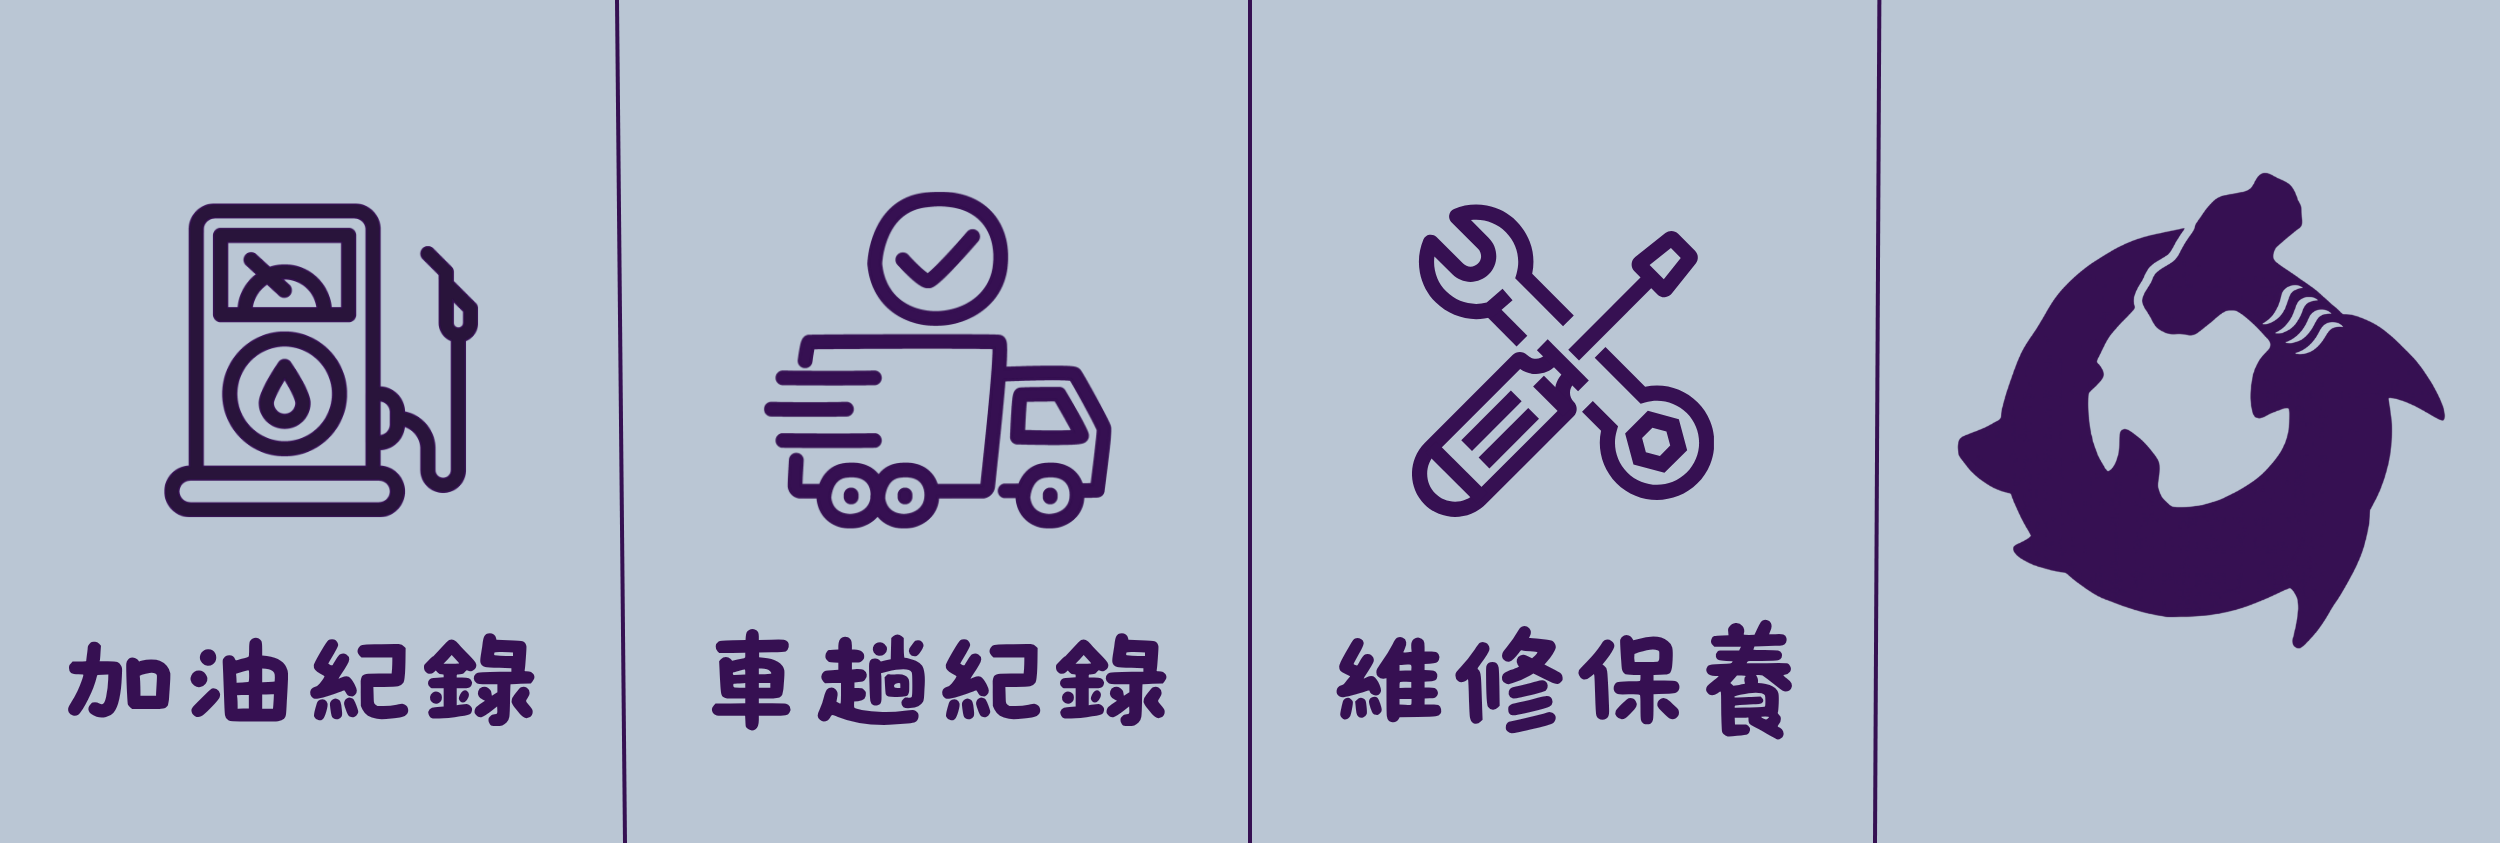
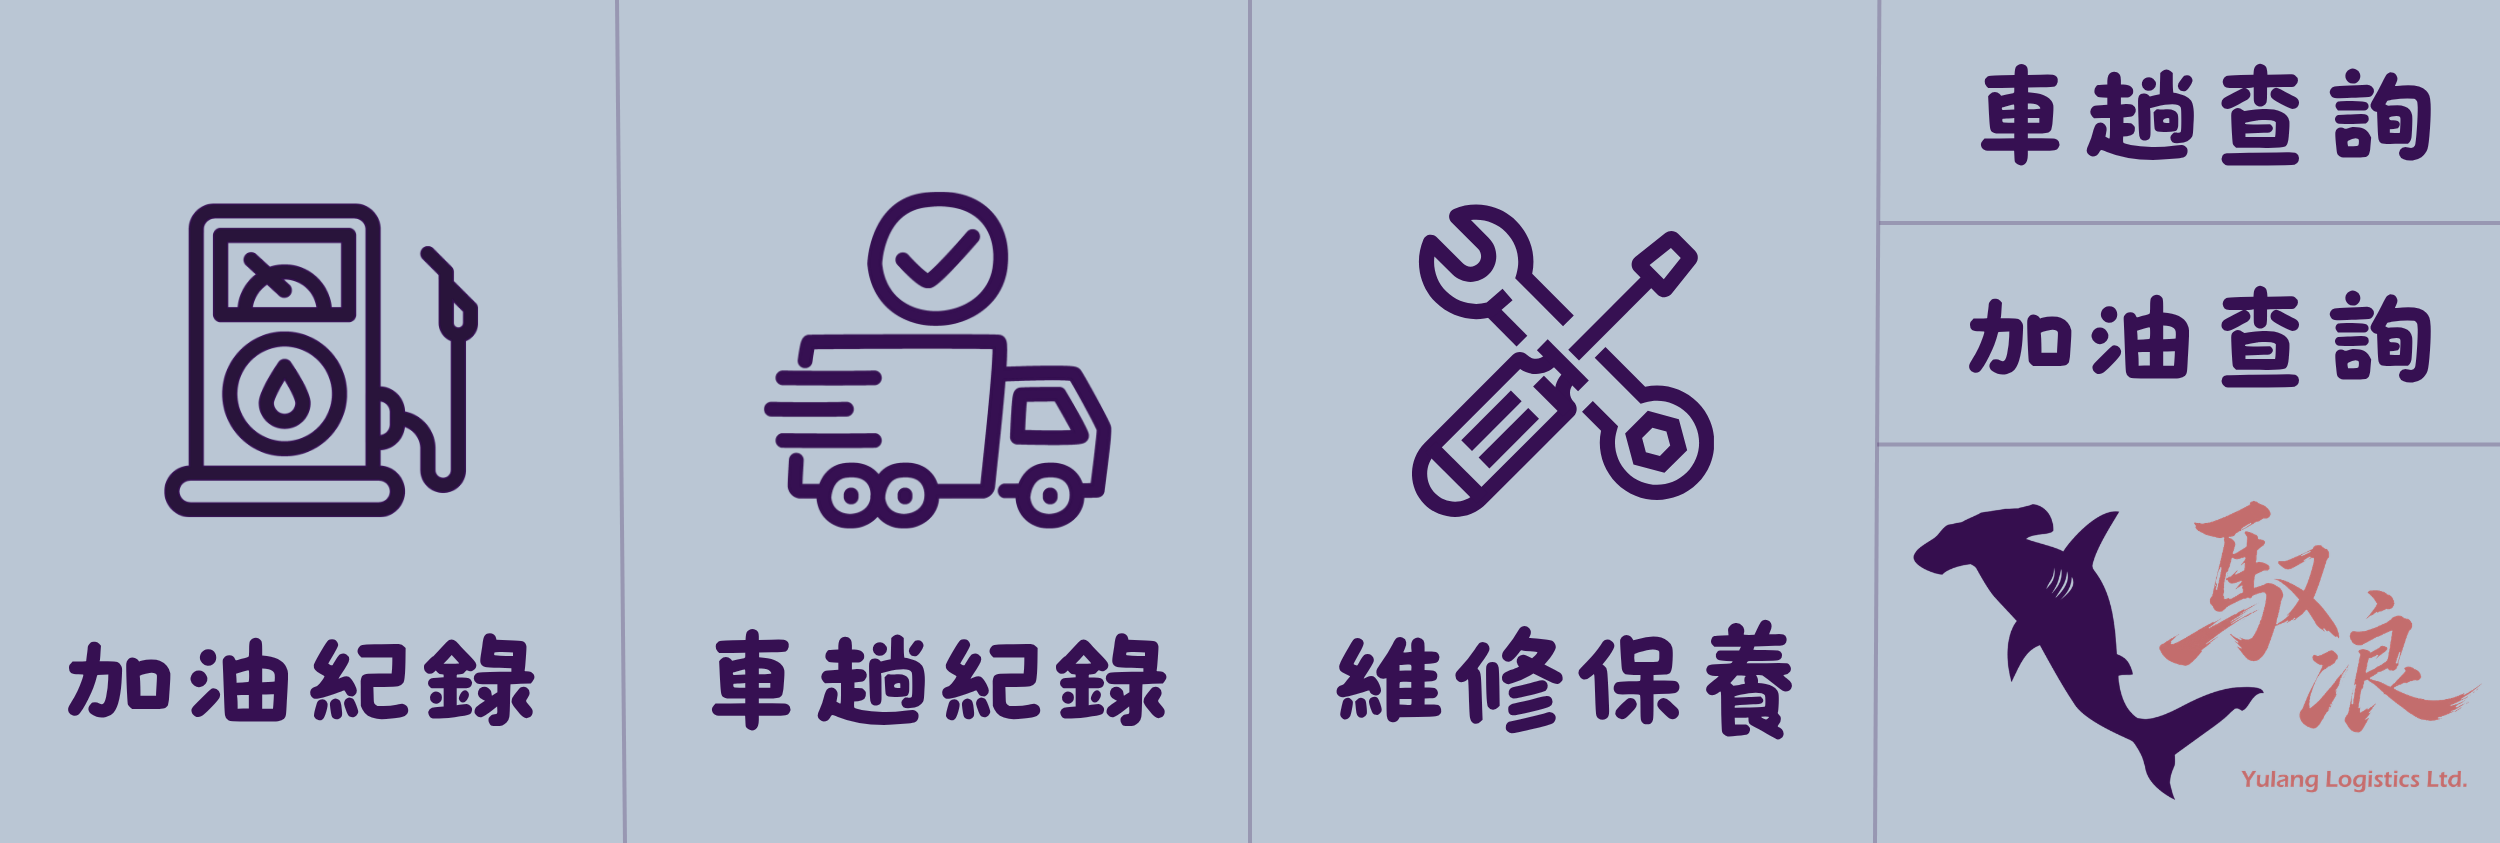
Rich menu: 4-col layout with col-3 split (車趟查詢/加油查詢/ERP網頁)
Column 0–2 stay full-height (加油紀錄 / 車趟紀錄 / 維修保養) and
keep their LIFF-or-message actions. Column 3 (x=1875–2500) splits
into 220 / 220 / 403:
  - 車趟查詢 → sends 「查詢車趟」
  - 加油查詢 → sends 「查詢油資」 (prompts for plate)
  - ERP網頁 → opens NEXT_PUBLIC_SITE_URL

The artwork at img/馭浪圖文選單.png is unchanged and remains the
2500x843 source. Run scripts/setup-rich-menu.ts to apply the new
tap regions to LINE.

Changed region(s): [[0.7488, 0.0617, 1.0, 0.9561], [0.9048, 0.8944, 0.9672, 0.9561]]

diff --git a/scripts/setup-rich-menu.ts b/scripts/setup-rich-menu.ts
@@ -22,14 +22,20 @@ try {
 
 const WIDTH = 2500
 const HEIGHT = 843
-const COLS = 4
-const CELL_W = Math.floor(WIDTH / COLS) // 625
-const CELL_H = HEIGHT
+const COL_W = 625
+
+// Layout (matches the artwork at img/馭浪圖文選單.png):
+//   col0 / col1 / col2 (full height 843)  + col3 split into 3 rows: 220 / 220 / 403
+const COL3_X = COL_W * 3
+const ROW_A_H = 220
+const ROW_B_H = 220
+const ROW_C_H = HEIGHT - ROW_A_H - ROW_B_H // 403
 
 type Cell = {
   label: string
   bg: string
   fg: string
+  bounds: { x: number; y: number; width: number; height: number }
   action: RichMenuArea['action']
 }
 
@@ -46,25 +52,54 @@ function liffUri(id: string | undefined, fallbackText: string): RichMenuArea['ac
     : { type: 'message', label: fallbackText, text: fallbackText }
 }
 
+function msg(label: string, text: string): RichMenuArea['action'] {
+  return { type: 'message', label, text }
+}
+
 const CELLS: Cell[] = [
-  { label: '加油',     bg: '#0EA5E9', fg: '#FFFFFF', action: liffUri(LIFF_FUEL,        '加油') },
-  { label: '車趟',     bg: '#10B981', fg: '#FFFFFF', action: liffUri(LIFF_TRIP,        '車趟') },
-  { label: '維修保養', bg: '#F59E0B', fg: '#FFFFFF', action: liffUri(LIFF_MAINTENANCE, '維修') },
-  { label: '系統',     bg: '#6366F1', fg: '#FFFFFF', action: { type: 'uri', label: '系統', uri: SITE_URL } },
+  // Column 0–2: full-height entry buttons
+  {
+    label: '加油紀錄', bg: '#0EA5E9', fg: '#FFFFFF',
+    bounds: { x: 0,        y: 0, width: COL_W, height: HEIGHT },
+    action: liffUri(LIFF_FUEL, '加油'),
+  },
+  {
+    label: '車趟紀錄', bg: '#10B981', fg: '#FFFFFF',
+    bounds: { x: COL_W,    y: 0, width: COL_W, height: HEIGHT },
+    action: liffUri(LIFF_TRIP, '車趟'),
+  },
+  {
+    label: '維修保養', bg: '#F59E0B', fg: '#FFFFFF',
+    bounds: { x: COL_W * 2, y: 0, width: COL_W, height: HEIGHT },
+    action: liffUri(LIFF_MAINTENANCE, '維修'),
+  },
+  // Column 3: three stacked tiles (車趟查詢 / 加油查詢 / ERP網頁)
+  {
+    label: '車趟查詢', bg: '#6366F1', fg: '#FFFFFF',
+    bounds: { x: COL3_X, y: 0, width: COL_W, height: ROW_A_H },
+    action: msg('車趟查詢', '查詢車趟'),
+  },
+  {
+    label: '加油查詢', bg: '#8B5CF6', fg: '#FFFFFF',
+    bounds: { x: COL3_X, y: ROW_A_H, width: COL_W, height: ROW_B_H },
+    action: msg('加油查詢', '查詢油資'),
+  },
+  {
+    label: 'ERP網頁', bg: '#475569', fg: '#FFFFFF',
+    bounds: { x: COL3_X, y: ROW_A_H + ROW_B_H, width: COL_W, height: ROW_C_H },
+    action: { type: 'uri', label: 'ERP網頁', uri: SITE_URL },
+  },
 ]
 
 const CUSTOM_IMAGE_PATH = resolve(process.cwd(), 'img/馭浪圖文選單.png')
 
 function buildSvg(): string {
-  const blocks = CELLS.map((c, i) => {
-    const x = i * CELL_W
-    return `<rect x="${x}" y="0" width="${CELL_W}" height="${CELL_H}" fill="${c.bg}"/>` +
-           `<text x="${x + CELL_W / 2}" y="${CELL_H / 2}" font-family="Microsoft JhengHei, PingFang TC, Heiti TC, Noto Sans CJK TC, sans-serif" font-size="180" font-weight="700" fill="${c.fg}" text-anchor="middle" dominant-baseline="central">${c.label}</text>`
+  const blocks = CELLS.map(c => {
+    const { x, y, width, height } = c.bounds
+    return `<rect x="${x}" y="${y}" width="${width}" height="${height}" fill="${c.bg}"/>` +
+           `<text x="${x + width / 2}" y="${y + height / 2}" font-family="Microsoft JhengHei, PingFang TC, Heiti TC, Noto Sans CJK TC, sans-serif" font-size="120" font-weight="700" fill="${c.fg}" text-anchor="middle" dominant-baseline="central">${c.label}</text>`
   }).join('')
-  const seps = Array.from({ length: COLS - 1 }, (_, i) =>
-    `<rect x="${(i + 1) * CELL_W - 2}" y="0" width="4" height="${CELL_H}" fill="rgba(255,255,255,0.18)"/>`
-  ).join('')
-  return `<svg xmlns="http://www.w3.org/2000/svg" width="${WIDTH}" height="${HEIGHT}">${blocks}${seps}</svg>`
+  return `<svg xmlns="http://www.w3.org/2000/svg" width="${WIDTH}" height="${HEIGHT}">${blocks}</svg>`
 }
 
 async function loadPng(): Promise<Buffer> {
@@ -109,8 +144,8 @@ async function main(): Promise<void> {
     selected: true,
     name: 'yulang-driver-menu',
     chatBarText: '司機快速指令',
-    areas: CELLS.map((c, i) => ({
-      bounds: { x: i * CELL_W, y: 0, width: CELL_W, height: CELL_H },
+    areas: CELLS.map(c => ({
+      bounds: c.bounds,
       action: c.action,
     })),
   }